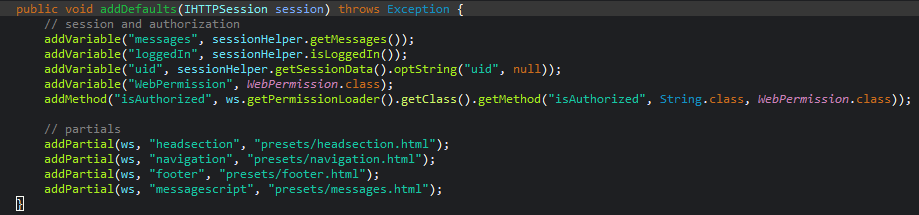
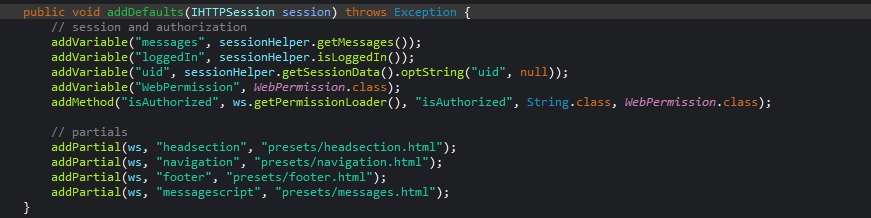
feat: implement global template method invocation and refactor method chaining logic.
including changes:
    - refactored resolveObjectPath:
        - better method separation (ignoring parameters)
        - removed getter fallback
        - improved error handling
    - updated addMethod and introduced TemplateFunction class
    - ajusted TEMPLATING_README.md

Changed region(s): [[0.0, 0.0, 1.0, 0.5023], [0.031, 0.586, 0.527, 0.9209], [0.0, 0.9209, 0.031, 0.9767]]

diff --git a/src/main/java/net/libraya/gobdarchive/service/web/templating/TemplatingHelper.java b/src/main/java/net/libraya/gobdarchive/service/web/templating/TemplatingHelper.java
@@ -1,6 +1,9 @@
 package net.libraya.gobdarchive.service.web.templating;
 
+import java.lang.reflect.InvocationTargetException;
 import java.lang.reflect.Method;
+import java.util.ArrayList;
+import java.util.List;
 import java.util.Map;
 import java.util.concurrent.ConcurrentHashMap;
 
@@ -14,13 +17,13 @@ public class TemplatingHelper {
 	 * return object itself if no method chaining, otherwise return last function output.
 	 * @throws TemplatingException 
 	 * */
-	public static Object resolveObjectPath(Object obj, String potentialPath) throws TemplatingException {
+	public static Object resolveObjectPath(Map<String, Object> context , Object obj, String potentialPath) throws TemplatingException {
 		if (obj == null || potentialPath == null || potentialPath.isEmpty()) return obj;
 	    
 	    // split path
-	    String[] parts = potentialPath.split("\\.");
+	    String[] parts = splitObjectPath(potentialPath);
 	    Object current = obj;
-
+	    
 	    for (String part : parts) {
 	        if (current == null) return null;
 	        
@@ -29,7 +32,7 @@ public class TemplatingHelper {
 	        String methodName = (bracketIndex != -1) ? part.substring(0, bracketIndex).trim() : part.trim();
 	        if (methodName.isEmpty()) continue;
 	        
-	        Object[] args = extractArgs(part);
+	        Object[] args = extractArgs(context, part);
 	        try {
 	        	 Method targetMethod = null;
 	            
@@ -41,27 +44,49 @@ public class TemplatingHelper {
 	                }
 	            }
 	            
-	            // fallback to getter
 	            if (targetMethod == null) {
-	                String getterName = "get" + methodName.substring(0, 1).toUpperCase() + methodName.substring(1);
-	                targetMethod = current.getClass().getMethod(getterName);
-	                args = new Object[0];
+	                throw new TemplatingException("No method '" + methodName + "' with " + args.length + " args in " + current.getClass().getSimpleName());
 	            }
-
+	                
 	            current = targetMethod.invoke(current, args);
 	        } catch (Exception e) {
-	        	 throw new TemplatingException("[TEMPLATING ERROR] Couldn't resolve '" + methodName + "' in " + current.getClass().getSimpleName());
+	        	 throw new TemplatingException("Couldn't resolve '" + methodName + "' in " + current.getClass().getSimpleName());
 	        }
 	    }
 	    return current;
 	}
 	
-	public static Object[] extractArgs(String method) {
+	/**
+	 * divides chained methods by '.' while ignoring method parameters.
+	 * */
+	private static String[] splitObjectPath(String path) {
+	    List<String> parts = new ArrayList<>();
+	    String current = "";
+	    int depth = 0;
+
+	    for (char c : path.toCharArray()) {
+	        if (c == '(') depth++;
+	        if (c == ')') depth--;
+
+	        if (c == '.' && depth == 0) {
+	            parts.add(current);
+	            current = "";
+	        } else {
+	            current += c;
+	        }
+	    }
+
+	    parts.add(current);
+	    return parts.toArray(new String[] {});
+	}
+
+	
+	public static Object[] extractArgs(Map<String, Object> context, String method) {
 		int bracketOpen = method.indexOf("(");
 		int bracketClose = method.lastIndexOf(")");
 		
 		// return no args if no brackets found.
-		if (bracketOpen == -1) {
+		if (bracketOpen == -1 || bracketClose == -1 || bracketClose < bracketOpen) {
 			return new Object[] {};
 		}
 			
@@ -72,10 +97,20 @@ public class TemplatingHelper {
 			return new Object[] {};
 		}
 		
-		Object[] args = argsRaw.split(",");
+		String[] raw = argsRaw.split(",");
+	    Object[] args = new Object[raw.length];
 	    for (int i = 0; i < args.length; i++) {
+	    	String cleaned = raw[i].trim().replace("'", "").replace("\"", "");
+	    	
+	    	// context lookup
+	    	if (context.containsKey(cleaned)) {
+	            args[i] = context.get(cleaned);
+	            continue;
+	    	}
+	    	
 	    	// cast to correct datatype
-	    	args[i] = cast(args[i].toString().trim().replace("'", "").replace("\"", ""));
+	        args[i] = cast(context, cleaned);
+
 	    	
 	    }
 		
@@ -85,14 +120,37 @@ public class TemplatingHelper {
 	public static Object getValue(Map<String, Object> context, String fullKey) throws TemplatingException {
 	    if (fullKey == null || fullKey.isEmpty()) return null;
 	    
-	    // if method chaining
-	    if (fullKey.contains(".")|| fullKey.contains("(")) {
-	        int dotIndex = fullKey.indexOf(".");
-	        String rootKey = fullKey.substring(0, dotIndex);
-	        String path = fullKey.substring(dotIndex + 1);
+	    int firstBracket = fullKey.indexOf("(");
+	    int lastBracket = fullKey.lastIndexOf(")");
+	    int firstDot = fullKey.indexOf(".");
+
+	    boolean isRootMethodCall = (firstBracket != -1 && lastBracket != -1 && (firstDot == -1 || firstBracket < firstDot));
+	    
+	    if (isRootMethodCall) {
+	        String methodName = fullKey.substring(0, firstBracket);
+	        Object contextObj = context.get(methodName);
 	        
+	        // methods from context
+	        if (contextObj instanceof TemplateMethod) {
+	        	TemplateMethod m = (TemplateMethod) contextObj;
+
+		        Object[] args = extractArgs(context, fullKey);
+		        
+		        try {
+					return m.method.invoke(m.owner, args);
+				} catch (IllegalAccessException | InvocationTargetException e) {
+					throw new TemplatingException("Unable to invoke method: " + m.owner.getClass().getSimpleName() + "." + m.method + " (" + args.length + " args)");
+				}
+	        }
+	    }
+	    
+	    // if method chaining
+	    if (firstDot != -1) {
+	    	String rootKey = fullKey.substring(0, firstDot);
+	        String path = fullKey.substring(firstDot + 1);
 	        Object rootObj = context.get(rootKey);
-	        return resolveObjectPath(rootObj, path);
+	        
+	        return resolveObjectPath(context, rootObj, path);
 	    }
 	    
 	    // return context
@@ -189,39 +247,56 @@ public class TemplatingHelper {
 		return parts;
 	}
 	
-	private static Object cast(Object ref) {
+	@SuppressWarnings({ "rawtypes", "unchecked" })
+	private static Object cast(Map<String, Object> context, Object ref) {
 		String s = ref.toString();
+		
+		// number
 		if (isNumeric(ref)) {
 	        return s.contains(".") ? Float.parseFloat(s) : Integer.parseInt(s);
 	    }
+		
+		// enum
+		if (s.contains(".")) {
+		    String[] parts = s.split("\\.");
+		    if (parts.length == 2) {
+		        String enumType = parts[0];
+		        String enumKey = parts[1];
+
+		        // check if type is in context
+		        Object typeObj = context.get(enumType);
+		        if (typeObj instanceof Class<?> clazz && clazz.isEnum()) {
+		            return Enum.valueOf((Class<Enum>) clazz, enumKey);
+		        }
+
+		    }
+		}
+		
+		// boolean
 	    if (s.equalsIgnoreCase("true") || s.equalsIgnoreCase("false")) {
 	        return Boolean.parseBoolean(s);
 	    }
+	    
+	    // just as passed (typically as string)
 	    return ref;
 	}
 	
 	private static boolean isNumeric(Object ref) {
-		if (ref == null) return false;
-		
-		String s = ref.toString().trim();
-		int startIndex = s.startsWith("-") ? 1 : 0;
-		
-		if (s.length() == startIndex) return false;
-		
-		for (int i = startIndex; i < s.length(); i++) {
-	         if (!Character.isDigit(s.charAt(i))) {
-	            return false;
-	        }
-	    }
-	    return true;
+		try {
+			Float.parseFloat(ref.toString());
+			return true;
+		} catch (Exception e){
+			return false;
+		}
 	}
 	
 	private static boolean containsComparison(String headTag) {
-		return headTag.contains("==") ||
-				headTag.contains("!=") ||
-				headTag.contains(">") ||
-				headTag.contains("<") ||
-				headTag.contains(">=") ||
-				headTag.contains("<=");
+		return headTag.contains(">=") ||
+			       headTag.contains("<=") ||
+			       headTag.contains("==") ||
+			       headTag.contains("!=") ||
+			       headTag.contains(">")  ||
+			       headTag.contains("<");
+
 	}
 }

diff --git a/src/main/java/net/libraya/gobdarchive/service/web/templating/SimpleTemplating.java b/src/main/java/net/libraya/gobdarchive/service/web/templating/SimpleTemplating.java
@@ -20,7 +20,7 @@ public class SimpleTemplating {
 	private WebServer ws;
 	private SessionHelper sessionHelper;
 	
-	private final Map<String, Object> context;
+	private final HashMap<String, Object> context;
 
 	public SimpleTemplating(WebServer ws, SessionHelper sessionHelper) throws TemplatingException {
 		this.ws = ws;
@@ -35,7 +35,7 @@ public class SimpleTemplating {
 		addVariable("loggedIn", sessionHelper.isLoggedIn());
 		addVariable("uid", sessionHelper.getSessionData().optString("uid", null));
 		addVariable("WebPermission", WebPermission.class);
-		addMethod("isAuthorized", ws.getPermissionLoader().getClass().getMethod("isAuthorized", String.class, WebPermission.class));
+		addMethod("isAuthorized", ws.getPermissionLoader(), "isAuthorized", String.class, WebPermission.class);
 		
 		// partials
 		addPartial(ws, "headsection", "presets/headsection.html");
@@ -44,8 +44,17 @@ public class SimpleTemplating {
 		addPartial(ws, "messagescript", "presets/messages.html");
 	}
 	
-	public void addMethod(String syntax, Method method) {
-		addVariable(syntax, method);
+	/**
+	 * add methods based on an object.
+	 * */
+	public void addMethod(String syntax, Object owner, String methodName, Class<?>... parameters) throws TemplatingException {
+		try {
+			Method method = owner.getClass().getMethod(methodName, parameters);
+			
+			addVariable(syntax, new TemplateMethod(owner, method));
+		} catch (Exception e) {
+			throw new TemplatingException("No such method: " + owner.getClass().getSimpleName() + "." + methodName + " (" + parameters.length + " args)");
+		}
 	}
 	
 	/**
@@ -99,7 +108,6 @@ public class SimpleTemplating {
 		long lastModified = Files.getLastModifiedTime(templatePath).toMillis();
 
 		if (cached == null || cached.getLastModified() != lastModified) {
-			ws.log("cache updated for: " + templatePath);
 			cached = new CachedTemplate(templatePath, Files.readString(templatePath));
 		    TemplatingHelper.CACHE.put(cacheKey, cached);
 		}

diff --git a/src/main/java/net/libraya/gobdarchive/service/web/WebServer.java b/src/main/java/net/libraya/gobdarchive/service/web/WebServer.java
@@ -215,6 +215,7 @@ public class WebServer extends Service {
         		response.put("error", "authentication error");
         	} else {
         		response.put("error", e.getMessage());
+        		e.printStackTrace();
         	}
         	
         	log("[RESPONSE ERROR] " + session.getRemoteIpAddress() + " - " + response.toString() +  ":" + e.getMessage());
@@ -307,6 +308,7 @@ public class WebServer extends Service {
         	return r;
         } catch (IOException | TemplatingException e) {
         	log("[TEMPLATE ERROR] " + name +  ":" + e.getMessage());
+        	e.printStackTrace();
             return newFixedLengthResponse(Response.Status.INTERNAL_ERROR, "text/plain", "Error reading template: " + name);
         }
     }

diff --git a/src/main/java/net/libraya/gobdarchive/service/web/templating/TemplateMethod.java b/src/main/java/net/libraya/gobdarchive/service/web/templating/TemplateMethod.java
@@ -1,0 +1,14 @@
+package net.libraya.gobdarchive.service.web.templating;
+
+import java.lang.reflect.Method;
+
+public class TemplateMethod {
+	
+	protected Object owner;
+	protected Method method;
+	
+	public TemplateMethod(Object owner, Method method) {
+		this.owner = owner;
+		this.method = method;
+	}
+}

diff --git a/TEMPLATING_README.md b/TEMPLATING_README.md
@@ -67,13 +67,13 @@ oder bei dictionaries:
 
 ### Methoden
 
-Methoden können im Backend registriert werden:
+Methoden können im Backend registriert werden. 
+Dazu wird der `Syntax` angegeben, das `Besitzer-Objekt`, der tatsächliche `Methodenname`, sowie die erwarteten `Parametertypen`.
+
+Bsp.:
 
 ```
-addMethod("isAuthorized",
-	ws.getPermissionLoader().getClass().getMethod(
-		"isAuthorized", String.class, WebPermission.class
-    )
+addMethod("isAuthorized", ws.getPermissionLoader(), "isAuthorized", String.class, WebPermission.class);
 );
 ```
 im Template:
